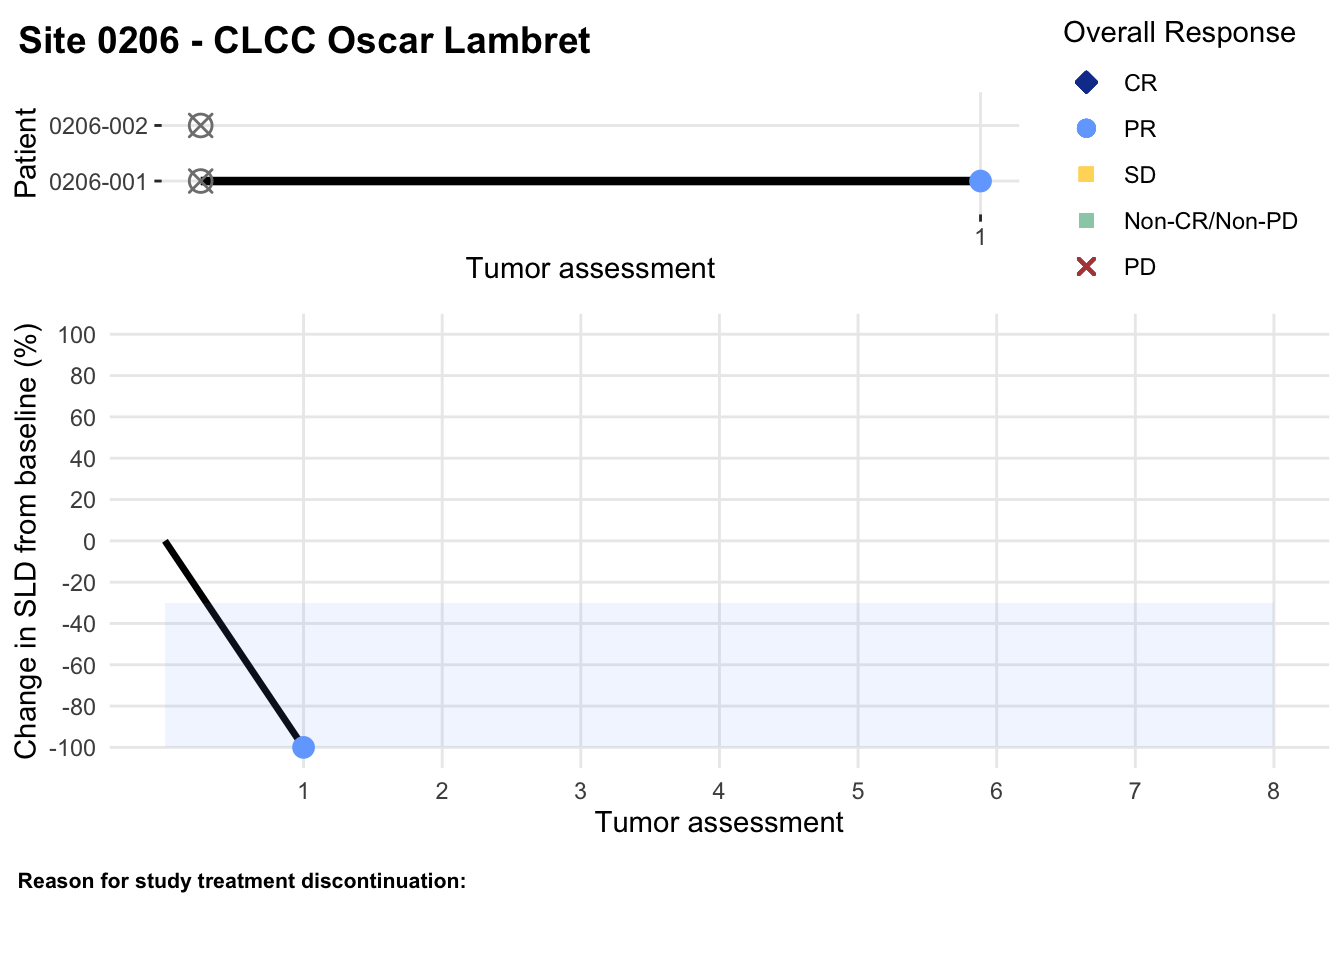
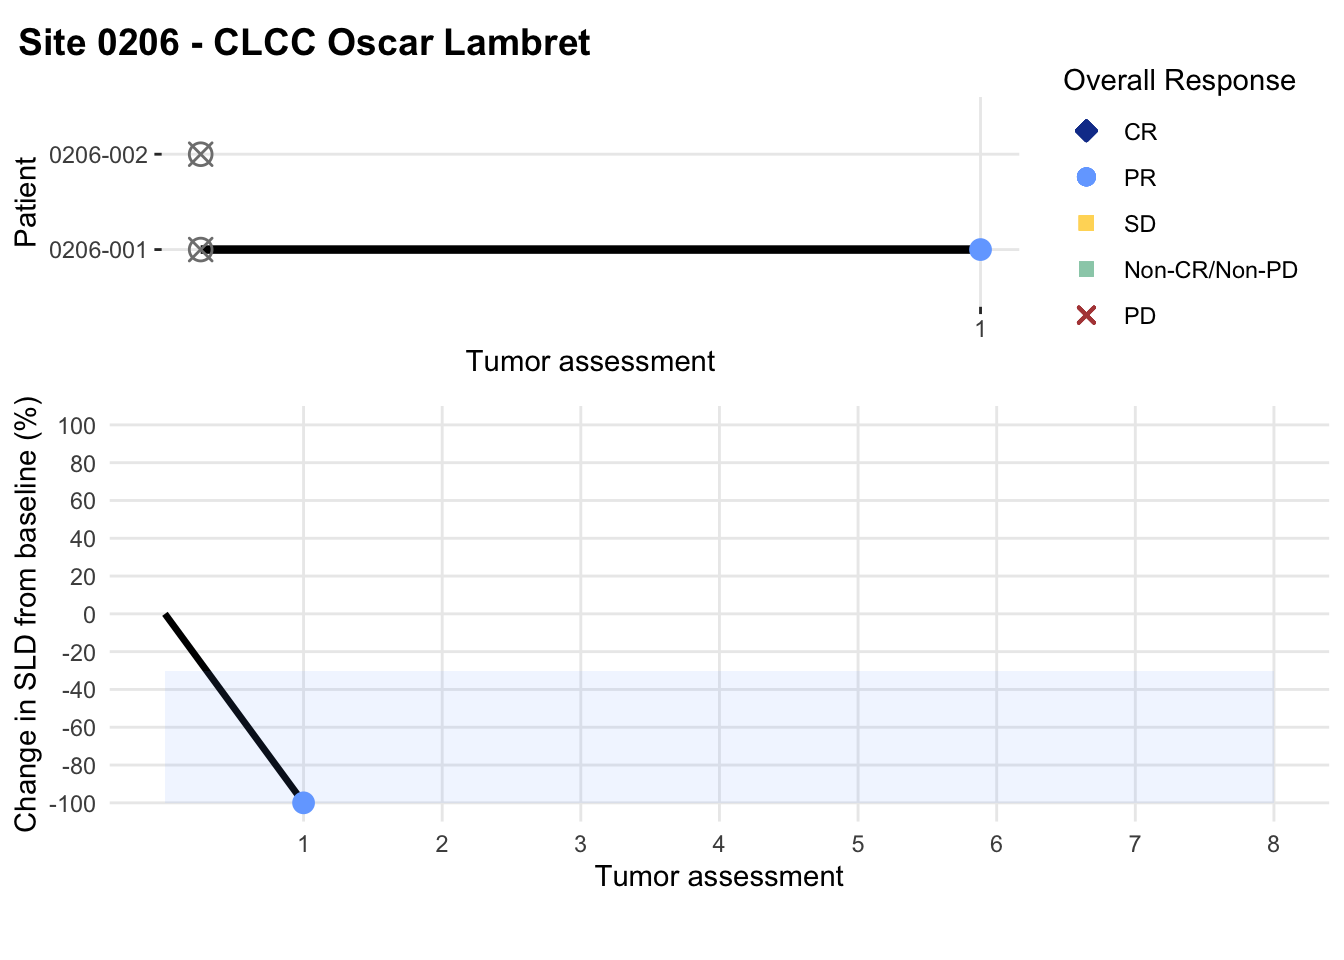
Build site.

diff --git a/docs/WP1_Preliminary-analysis_2023-10-24.html b/docs/WP1_Preliminary-analysis_2023-10-24.html
@@ -519,15 +519,15 @@ project makes it easier to run your code on other machines.</p>
 <div class="panel panel-default">
 <div class="panel-heading">
 <p class="panel-title">
-<a data-toggle="collapse" data-parent="#workflowr-checks" href="#strongRepositoryversionstrongahrefhttpsgithubcomMedsirScientificPECATItreef684f2916fcf41b9c0b615605a82590829ca18ectargetblankf684f29a">
+<a data-toggle="collapse" data-parent="#workflowr-checks" href="#strongRepositoryversionstrongahrefhttpsgithubcomMedsirScientificPECATItree7b15fb5f504d90c1cb643c652176f8893e3e1140targetblank7b15fb5a">
 <span class="glyphicon glyphicon-ok text-success"
 aria-hidden="true"></span> <strong>Repository version:</strong>
-<a href="https://github.com/MedsirScientific/PECATI/tree/f684f2916fcf41b9c0b615605a82590829ca18ec" target="_blank">f684f29</a>
+<a href="https://github.com/MedsirScientific/PECATI/tree/7b15fb5f504d90c1cb643c652176f8893e3e1140" target="_blank">7b15fb5</a>
 </a>
 </p>
 </div>
 <div
[2 lines of base64/hex data omitted]
 class="panel-collapse collapse">
 <div class="panel-body">
 <p>
@@ -537,7 +537,7 @@ reproducibility.
 </p>
 <p>
 The results in this page were generated with repository version
-<a href="https://github.com/MedsirScientific/PECATI/tree/f684f2916fcf41b9c0b615605a82590829ca18ec" target="_blank">f684f29</a>.
+<a href="https://github.com/MedsirScientific/PECATI/tree/7b15fb5f504d90c1cb643c652176f8893e3e1140" target="_blank">7b15fb5</a>.
 See the <em>Past versions</em> tab to see a history of the changes made
 to the R Markdown and HTML files.
 </p>
@@ -614,6 +614,40 @@ Message
 </tr>
 </thead>
 <tbody>
+<tr>
+<td>
+Rmd
+</td>
+<td>
+<a href="https://github.com/MedsirScientific/PECATI/blob/7b15fb5f504d90c1cb643c652176f8893e3e1140/analysis/WP1_Preliminary-analysis_2023-10-24.Rmd" target="_blank">7b15fb5</a>
+</td>
+<td>
+Daniel Alcalá
+</td>
+<td>
+2023-10-26
+</td>
+<td>
+Update swimmer-and-spider plots aspect ratio
+</td>
+</tr>
+<tr>
+<td>
+html
+</td>
+<td>
+<a href="https://rawcdn.githack.com/MedsirScientific/PECATI/762199a627fa8cd570be22317dfd357fed5e2cb0/docs/WP1_Preliminary-analysis_2023-10-24.html" target="_blank">762199a</a>
+</td>
+<td>
+Daniel Alcalá
+</td>
+<td>
+2023-10-26
+</td>
+<td>
+Build site.
+</td>
+</tr>
 <tr>
 <td>
 Rmd
@@ -2217,6 +2251,17 @@ Date
 </tr>
 </thead>
 <tbody>
+<tr>
+<td>
+<a href="https://github.com/MedsirScientific/PECATI/blob/762199a627fa8cd570be22317dfd357fed5e2cb0/docs/figure/WP1_Preliminary-analysis_2023-10-24.Rmd/unnamed-chunk-14-1.png" target="_blank">762199a</a>
+</td>
+<td>
+Daniel Alcalá
+</td>
+<td>
+2023-10-26
+</td>
+</tr>
 <tr>
 <td>
 <a href="https://github.com/MedsirScientific/PECATI/blob/3afea27927c52d8f77446c45befbcd9a16893e0f/docs/figure/WP1_Preliminary-analysis_2023-10-24.Rmd/unnamed-chunk-14-1.png" target="_blank">3afea27</a>
